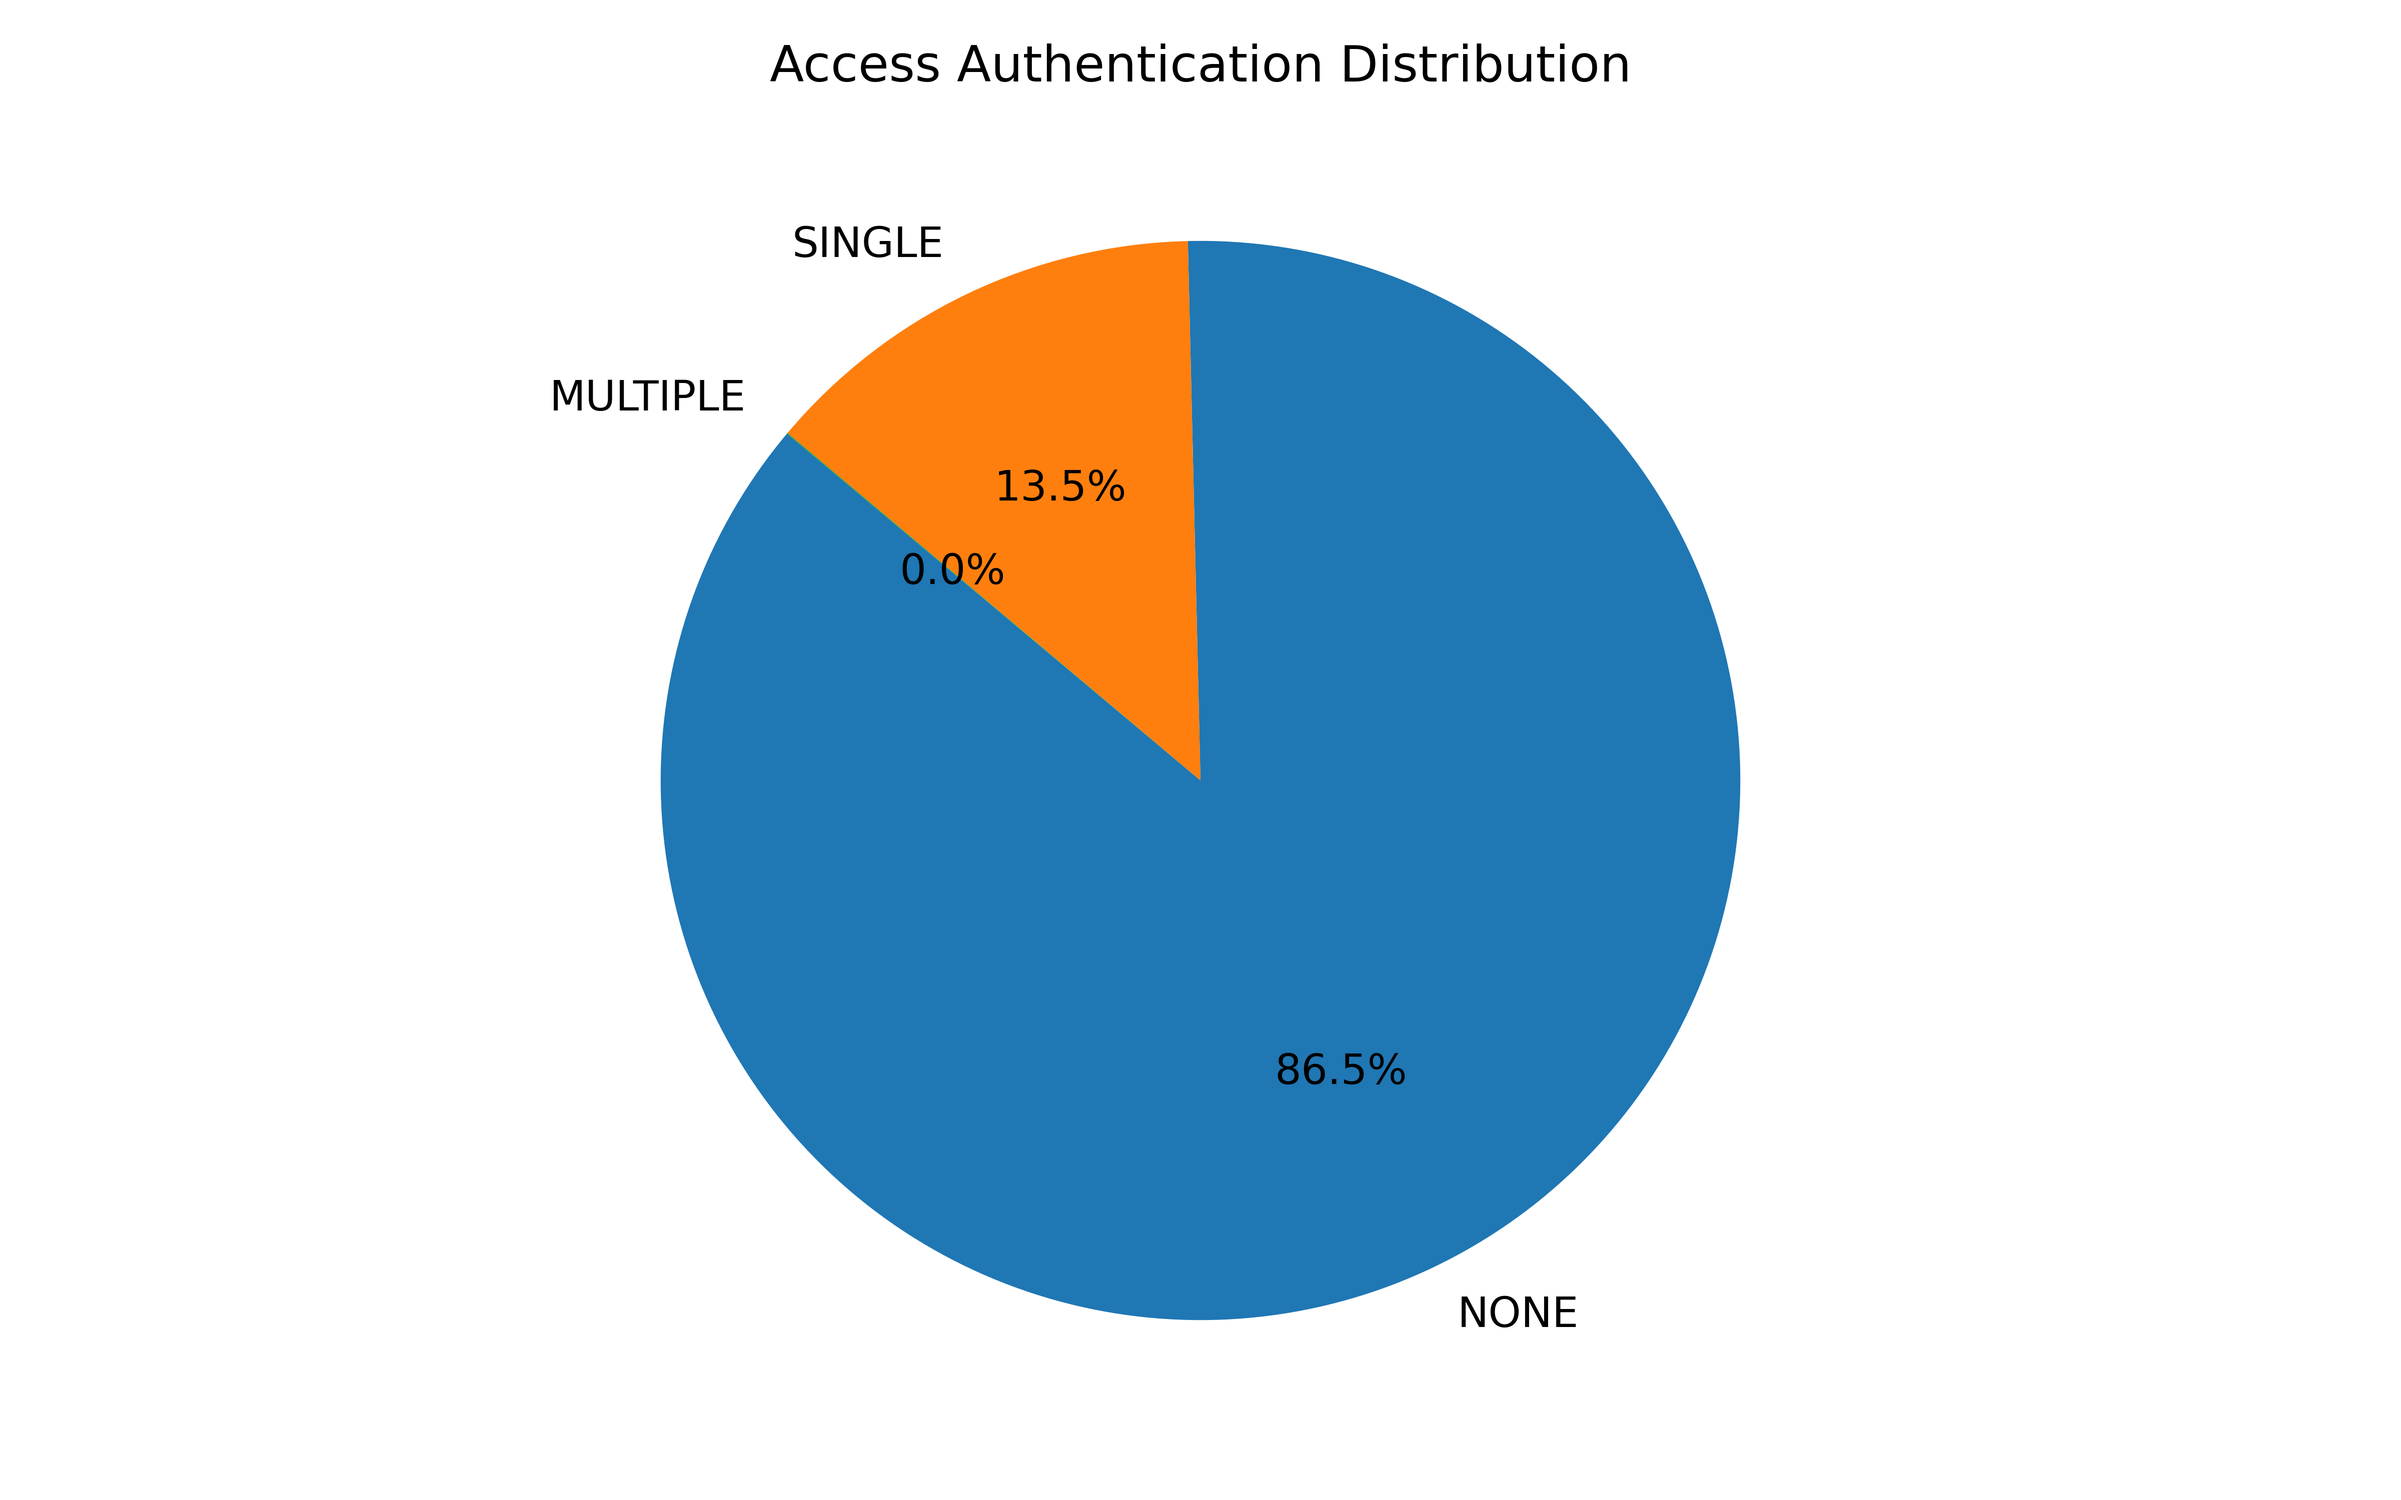
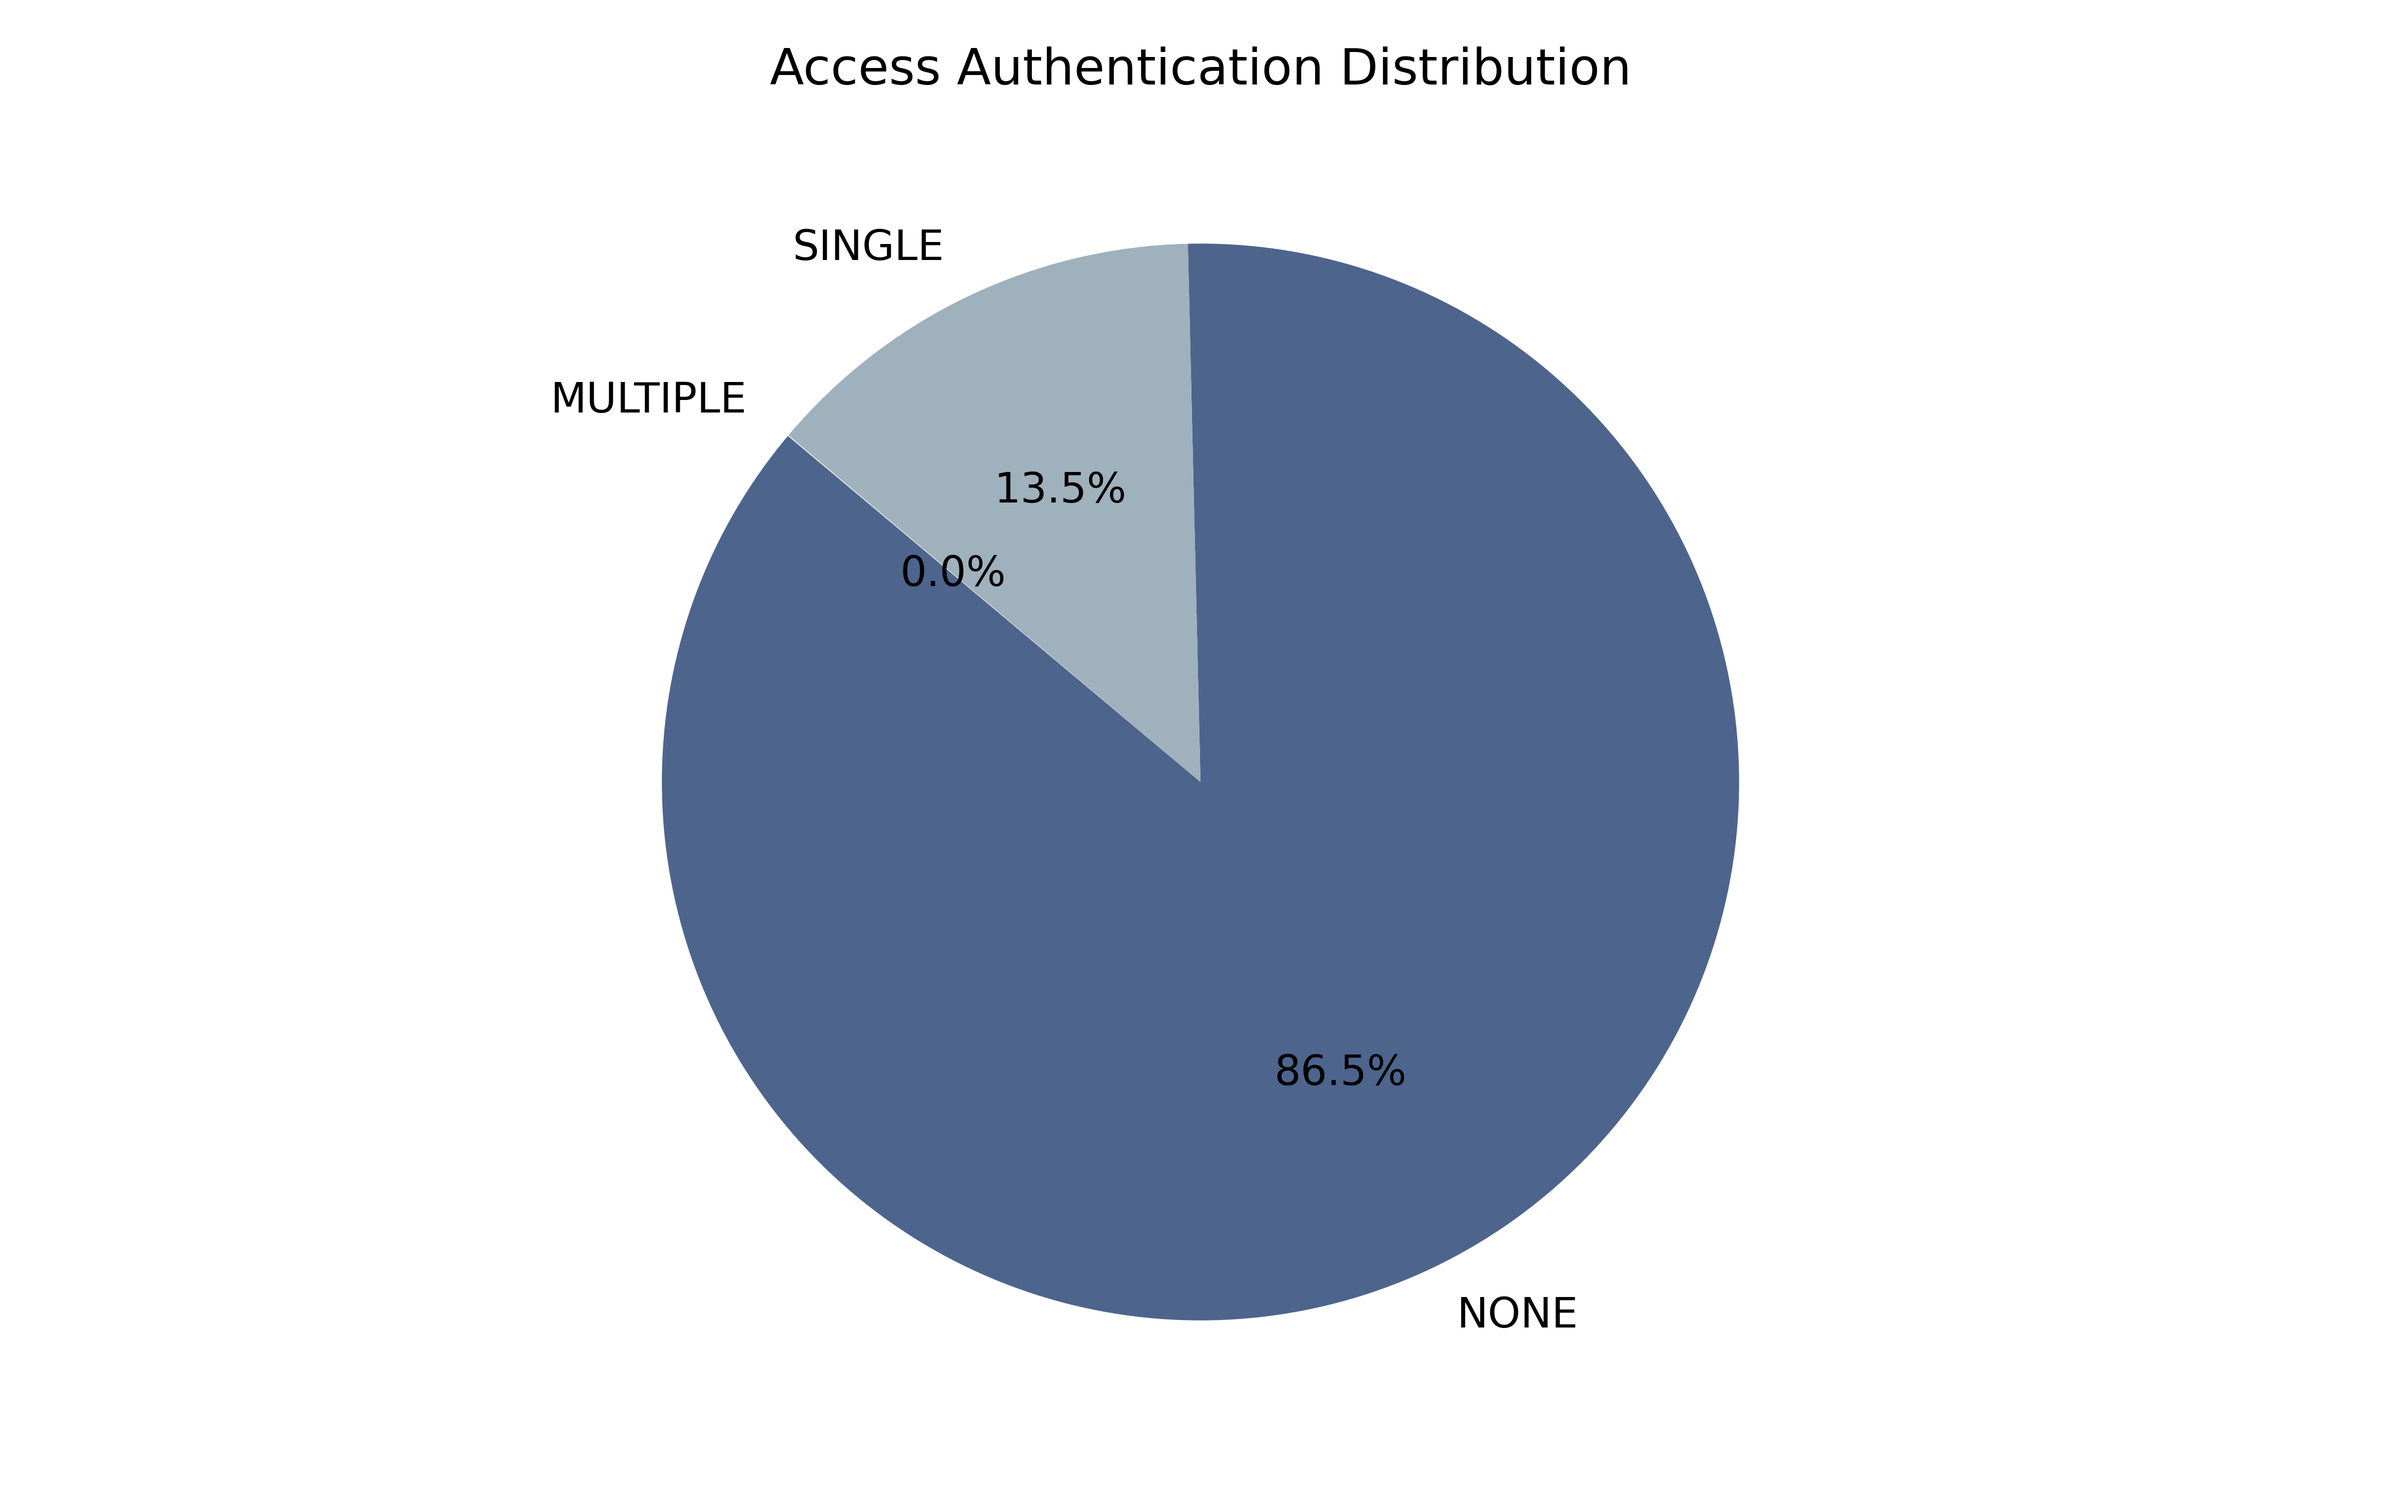
Week 6 update and clean up and fancy diagrams

Changed region(s): [[0.25, 0.155, 0.75, 0.899], [0.3125, 0.031, 0.6875, 0.062], [0.2188, 0.248, 0.3125, 0.279]]

diff --git a/bivariate_analysis.py b/bivariate_analysis.py
@@ -3,6 +3,7 @@ import numpy as np
 import matplotlib.pyplot as plt
 from sklearn.preprocessing import LabelEncoder
 import statsmodels.api as sm
+from sklearn.linear_model import LinearRegression
 
 # Import functions from other files
 from dataset_loader import load_data
@@ -43,7 +44,7 @@ def bivariate_analysis(cve):
     # Plot scatter diagrams for each encoded feature vs cvss
     for col in encoded_df.columns:
         if col != 'cvss':
-            plt.scatter(encoded_df[col], encoded_df['cvss'],color='#0570b0')
+            plt.scatter(encoded_df[col], encoded_df['cvss'],color='#4D648D')
             plt.title(f'Scatter Diagram: CVSS Score vs {col}')
             plt.xlabel(f'{col}')
             plt.ylabel('CVSS Score')
@@ -52,7 +53,58 @@ def bivariate_analysis(cve):
     
     
     # Perform linear regression between cwe_name_encoded and cvss
-    X = sm.add_constant(cve['cwe_name_encoded'])
-    model = sm.OLS(cve['cvss'], X).fit()
-    print("\nLinear Regression Summary (CVSS ~ CWE Name Encoded):")
-    print(model.summary())
+    model = LinearRegression()
+    X = encoded_df[['cwe_name_encoded']]
+    y = encoded_df['cvss']
+    model.fit(X, y)
+
+    # Extract the weight (slope) and constant (intercept) 
+    # following webinar 6 slides
+    weighting = model.coef_[0] 
+    constant = model.intercept_
+
+    # Print the predictions and R-squared value
+    print(f"Weight (Slope): {weighting:.2f}")
+    print(f"Constant (Intercept): {constant:.2f}")
+    print(f"R-squared: {model.score(X, y)}")
+
+    # Add predictions to the DataFrame
+    encoded_df['cvss_pred'] = model.predict(X)
+
+    # Plot the regression line
+    plt.figure(figsize=(8, 6))
+    plt.scatter(X, y, color='#4D648D', label='Actual Data')
+    plt.plot(X, weighting * X + constant, color='red', linewidth=2, label=f'Regression Line: y = {weighting:.2f}x + {constant:.2f}')
+    plt.title('Linear Regression: CVSS Score vs CWE Name Encoded')
+    plt.xlabel('CWE Name Encoded')
+    plt.ylabel('CVSS Score')
+    plt.legend()
+    plt.savefig('./figures/linear_regression_cvss_vs_cwe_name_encoded.png')
+    plt.show()
+
+    # Linear Regression: CVSS vs Publication Year
+    X_year = encoded_df[['pub_year_num']]
+    y_year = encoded_df['cvss']
+    model_year = LinearRegression()
+    model_year.fit(X_year, y_year)
+
+    weighting_year = model_year.coef_[0]
+    constant_year = model_year.intercept_
+
+    encoded_df['cvss_pred_year'] = model_year.predict(X_year)
+
+    plt.figure(figsize=(8, 6))
+    plt.scatter(X_year, y_year, color='#4D648D', label='Actual Data')
+    plt.plot(X_year, model_year.predict(X_year), color='red', linewidth=2,
+             label=f'Regression Line: y = {weighting_year:.2f}x + {constant_year:.2f}')
+    plt.title('Linear Regression: CVSS Score vs Publication Year')
+    plt.xlabel('Publication Year')
+    plt.ylabel('CVSS Score')
+    plt.legend()
+    plt.savefig('./figures/linear_regression_cvss_vs_pub_year.png')
+    plt.show()
+
+    print("\nLinear Regression Summary (CVSS vs Publication Year):")
+    print(f"Weight (Slope): {weighting_year:.2f}")
+    print(f"Constant (Intercept): {constant_year:.2f}")
+    print(f"R-squared: {model_year.score(X_year, y_year):.2f}")

diff --git a/cve_parser.py b/cve_parser.py
@@ -41,13 +41,16 @@ def impact_parse(cve_data):
         print(f"\n{impact} Impact Distribution:")
         print(impact_counts)
 
-        # Plotting
-        #colors = ['orange', 'lightblue', 'blue']
+        # draw the figure and save it in figures folder
+        # Define colors for the pie chart, I will be using the same colors as in the other figures
+        # navy blue, steel blue, light gray        
+        colors = ['#4D648D', '#9FB1BC', '#E6E6E6']
+
         plt.figure(figsize=(8, 5))
         plt.pie(impact_counts['Count'], 
                 labels=impact_counts[impact], 
                 autopct='%1.1f%%', 
-                startangle=140)
+                startangle=140, colors=colors)
 
         plt.title(f'{impact} Impact Distribution')
         plt.grid(axis='y', linestyle='--', alpha=0.5)
@@ -118,9 +121,9 @@ def impact_parse_grouped(cve_data):
 
     # I will choose this color scheme for the bars #a6bddb , #3690c0 , #0570b0
     # colors are grades of blue
-    plt.bar(x - width, df['impact_confidentiality'], width, label='Confidentiality', color='#a6bddb')
-    plt.bar(x, df['impact_integrity'], width, label='Integrity', color='#3690c0')
-    plt.bar(x + width, df['impact_availability'], width, label='Availability', color='#0570b0')
+    plt.bar(x - width, df['impact_confidentiality'], width, label='Confidentiality', color='#4D648D')
+    plt.bar(x, df['impact_integrity'], width, label='Integrity', color='#9FB1BC')
+    plt.bar(x + width, df['impact_availability'], width, label='Availability', color='#E6E6E6')
 
     plt.xlabel('Impact Level')
     plt.ylabel('Count')
@@ -142,7 +145,7 @@ def vulnerable_product_parser(products_data):
 
     # Plot horizontal bar chart
     plt.figure(figsize=(10, 6))
-    plt.barh(product_counts['Product'], product_counts['CVE Count'], color='#0570b0')
+    plt.barh(product_counts['Product'], product_counts['CVE Count'], color='#4D648D')
     plt.xlabel('Number of CVEs')
     plt.ylabel('Product')
     plt.title('Top 10 Most Affected Products')

diff --git a/cvss_categoriser.py b/cvss_categoriser.py
@@ -32,10 +32,12 @@ def cvss_statistics(cve_df):
 
 def cvss_show(cvss_counts):
     # draw the figure and save it in figures folder
-    #colors = ['orange', 'yellow', 'skyblue', 'blue']
+    # Define colors for the pie chart, I will be using the same colors as in the other figures
+    # navy blue, steel blue, light gray
+    colors = ['#4D648D', '#9FB1BC', '#E6E6E6', '#C1D3E0']
         
     plt.figure(figsize=(8, 5))
-    plt.pie(cvss_counts['Count'], labels=cvss_counts['CVSS Category'], autopct='%1.1f%%', startangle=140)
+    plt.pie(cvss_counts['Count'], labels=cvss_counts['CVSS Category'], autopct='%1.1f%%', startangle=140, colors=colors)
 
     plt.title('CVSS Score Distribution')
     plt.xlabel('CVSS Category')

diff --git a/access_authentication.py b/access_authentication.py
@@ -10,11 +10,16 @@ def access_authentication_statistics(cve):
     # Display results
     print(access_authentication_count)
 
+    # draw the figure and save it in figures folder
+    # Define colors for the pie chart, I will be using the same colors as in the other figures
+    # navy blue, steel blue, light gray
+    colors = ['#4D648D', '#9FB1BC', '#E6E6E6']
+
     # Plotting
     plt.figure(figsize=(8, 5))
     plt.pie(access_authentication_count['Count'], 
             labels=access_authentication_count['access_authentication'], autopct='%1.1f%%',
-            startangle=140)
+            startangle=140,colors=colors)
     plt.title('Access Authentication Distribution')
 
     # Save and display the chart

diff --git a/access_complexity.py b/access_complexity.py
@@ -10,11 +10,16 @@ def access_complexity_statistics(cve):
     # Display results
     print(access_complexity_count)
 
+    # draw the figure and save it in figures folder
+    # Define colors for the pie chart, I will be using the same colors as in the other figures
+    # navy blue, steel blue, light gray
+    colors = ['#4D648D', '#9FB1BC', '#E6E6E6']
+
     # Plotting
     plt.figure(figsize=(8, 5))
     plt.pie(access_complexity_count['Count'], 
             labels=access_complexity_count['access_complexity'], autopct='%1.1f%%',
-            startangle=140)
+            startangle=140, colors=colors)
     plt.title('Access Complexity Distribution')
 
     # Save and display the chart

diff --git a/attack_vector.py b/attack_vector.py
@@ -12,11 +12,14 @@ def attack_vector_statistics(cve_data):
     # Display results
     print(attack_vector_count)
 
+    # Define colors for the pie chart
+    colors = ['#4D648D', '#9FB1BC', '#E6E6E6']
+
     # Plotting
-    plt.figure(figsize=(10, 8))
+    plt.figure(figsize=(8, 5))
     plt.pie(attack_vector_count['Count'], 
             labels=attack_vector_count['access_vector'], autopct='%1.1f%%',
-            startangle=140, textprops={'fontsize': 12})
+            startangle=140,colors=colors, textprops={'fontsize': 12})
     plt.title('Attack Vector Distribution')
 
     # Save and display the chart

diff --git a/vendors_parser.py b/vendors_parser.py
@@ -19,7 +19,7 @@ def vendors_show(vendors_count):
 
     plt.figure(figsize=(8, 5))
     plt.barh(top_10_vendors['vendor'], top_10_vendors['Count'], 
-             color=plt.cm.viridis_r(top_10_vendors['Count'] / top_10_vendors['Count'].max()))
+             color='#4D648D')
 
     plt.title('Top 10 Most Affected Vendors')
     plt.xlabel('Number of CVEs')

diff --git a/cwe_parser.py b/cwe_parser.py
@@ -35,7 +35,7 @@ def cwes_show(cwes_count):
     cwe_labels = top_10_cwes['cwe_code'].astype(str).apply(lambda x: f"CWE-{x}")
     plt.bar(cwe_labels,
             top_10_cwes['Count'], 
-            color='#0570b0')
+            color='#4D648D')
 
     plt.title('Top 10 Most Affected CWEs')
     plt.xlabel('CWE Code')
